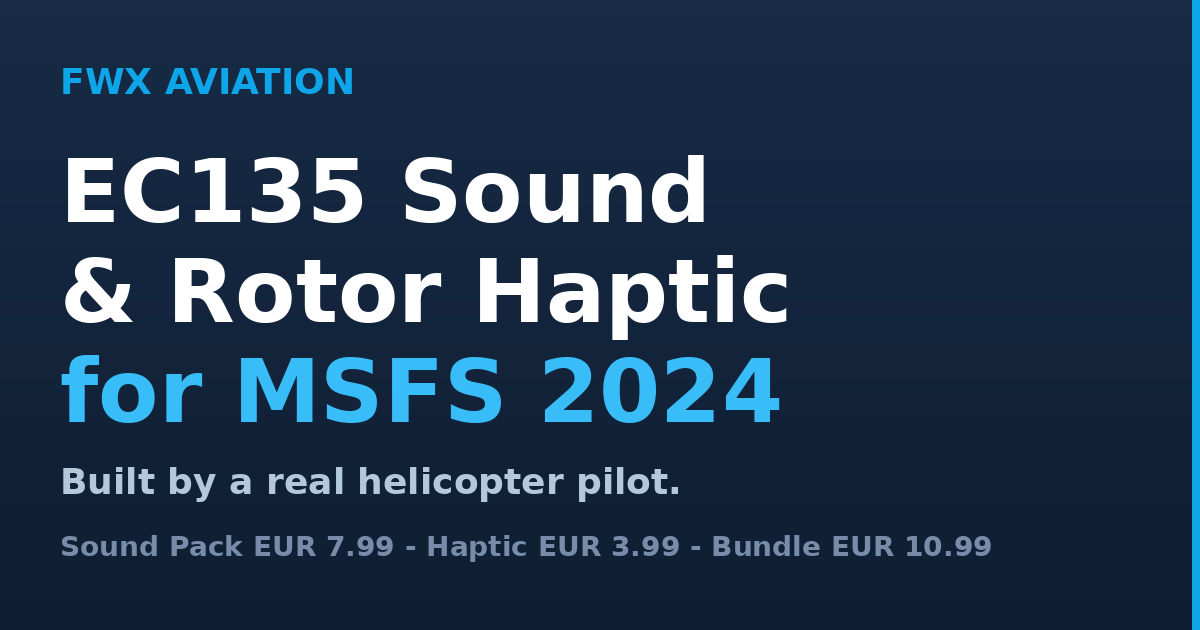
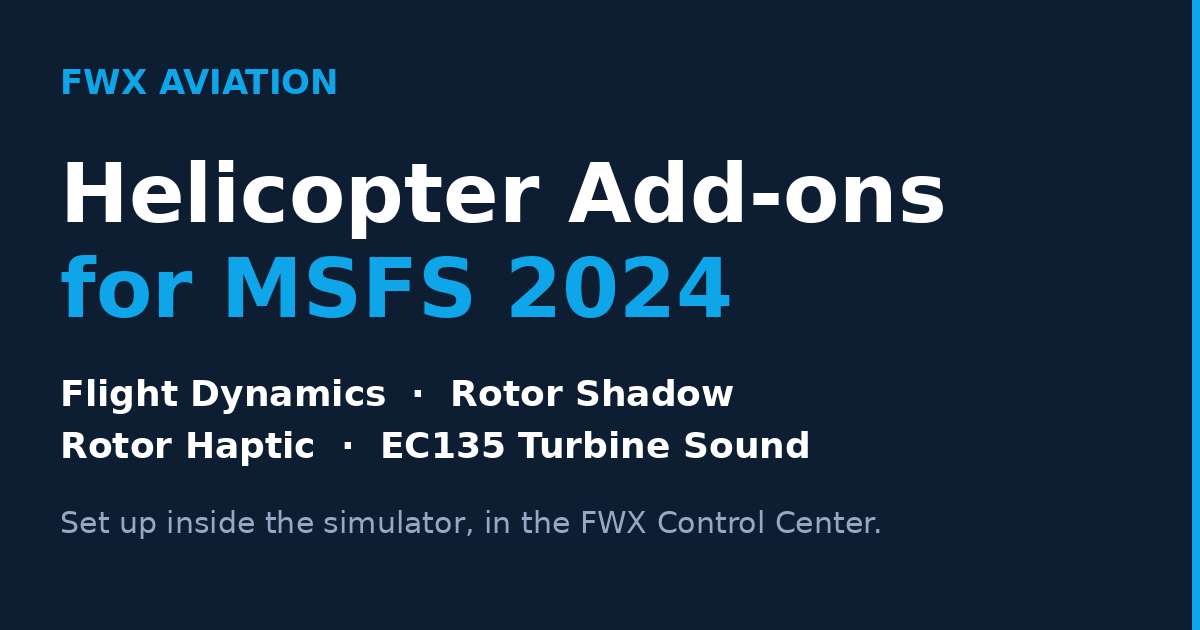
Replace social preview image (no prices, no pilot claim)
Claude-Session: https://claude.ai/code/session_01CxY42MTTAiuNgszNKfLEvG

Changed region(s): [[0.0308, 0.5429, 0.8325, 0.9048], [0.0308, 0.2413, 0.8017, 0.5429], [0.0617, 0.0905, 0.3083, 0.1508]]

diff --git a/de/index.html b/de/index.html
@@ -15,7 +15,7 @@
 <meta property="og:title" content="FWX EC135 Enhancement Mod: authentischer Turbinensound für MSFS 2024">
 <meta property="og:description" content="Authentischer Cockpit- und Außensound für den EC135 in MSFS 2024, plus Rotor-Haptik für jeden Hubschrauber. Alles im FWX Control Center im Simulator einstellbar.">
 <meta property="og:url" content="https://finnwestx1.com/de/">
-<meta property="og:image" content="https://finnwestx1.com/og-image.png">
+<meta property="og:image" content="https://finnwestx1.com/og-image.png?v=20260907">
 <meta property="og:image:width" content="1200">
 <meta property="og:image:height" content="630">
 <meta property="og:image:alt" content="FWX EC135 Sound Enhancement Mod für MSFS 2024">
@@ -24,7 +24,7 @@
 <meta name="twitter:card" content="summary_large_image">
 <meta name="twitter:title" content="FWX EC135 Enhancement Mod: authentischer Turbinensound für MSFS 2024">
 <meta name="twitter:description" content="Authentischer Cockpit- und Außensound für den EC135 in MSFS 2024, plus Rotor-Haptik für jeden Hubschrauber. Alles im FWX Control Center im Simulator einstellbar.">
-<meta name="twitter:image" content="https://finnwestx1.com/og-image.png">
+<meta name="twitter:image" content="https://finnwestx1.com/og-image.png?v=20260907">
 <script type="application/ld+json">
 {
   "@context": "https://schema.org",

diff --git a/index.html b/index.html
@@ -15,7 +15,7 @@
 <meta property="og:title" content="FWX EC135 Enhancement Mod: authentic turbine audio for MSFS 2024">
 <meta property="og:description" content="Authentic cockpit and exterior turbine audio for the EC135 in MSFS 2024, plus rotor haptics for every helicopter.">
 <meta property="og:url" content="https://finnwestx1.com/">
-<meta property="og:image" content="https://finnwestx1.com/og-image.png">
+<meta property="og:image" content="https://finnwestx1.com/og-image.png?v=20260907">
 <meta property="og:image:width" content="1200">
 <meta property="og:image:height" content="630">
 <meta property="og:image:alt" content="FWX EC135 Sound Enhancement Mod for MSFS 2024">
@@ -24,7 +24,7 @@
 <meta name="twitter:card" content="summary_large_image">
 <meta name="twitter:title" content="FWX EC135 Enhancement Mod: authentic turbine audio for MSFS 2024">
 <meta name="twitter:description" content="Authentic cockpit and exterior turbine audio for the EC135 in MSFS 2024, plus rotor haptics for every helicopter.">
-<meta name="twitter:image" content="https://finnwestx1.com/og-image.png">
+<meta name="twitter:image" content="https://finnwestx1.com/og-image.png?v=20260907">
 <script type="application/ld+json">
 {
   "@context": "https://schema.org",

diff --git a/de/presse.html b/de/presse.html
@@ -15,7 +15,7 @@
 <meta property="og:title" content="FWX Aviation - Presse &amp; Media-Kit">
 <meta property="og:description" content="Ein-Klick-Download des kompletten FWX Pressekits, plus einzelne Logos, Screenshots, Demos und PDFs.">
 <meta property="og:url" content="https://finnwestx1.com/de/presse.html">
-<meta property="og:image" content="https://finnwestx1.com/og-image.png">
+<meta property="og:image" content="https://finnwestx1.com/og-image.png?v=20260907">
 <style>
 :root {
   --bg:#05050a; --bg-alt:#0a0f1f; --card:rgba(255,255,255,0.03);

diff --git a/press.html b/press.html
@@ -15,7 +15,7 @@
 <meta property="og:title" content="FWX Aviation - Press &amp; Media Kit">
 <meta property="og:description" content="One-click download of the full FWX press kit, plus individual logos, screenshots, demos and PDFs.">
 <meta property="og:url" content="https://finnwestx1.com/press.html">
-<meta property="og:image" content="https://finnwestx1.com/og-image.png">
+<meta property="og:image" content="https://finnwestx1.com/og-image.png?v=20260907">
 <style>
 :root {
   --bg:#05050a; --bg-alt:#0a0f1f; --card:rgba(255,255,255,0.03);
